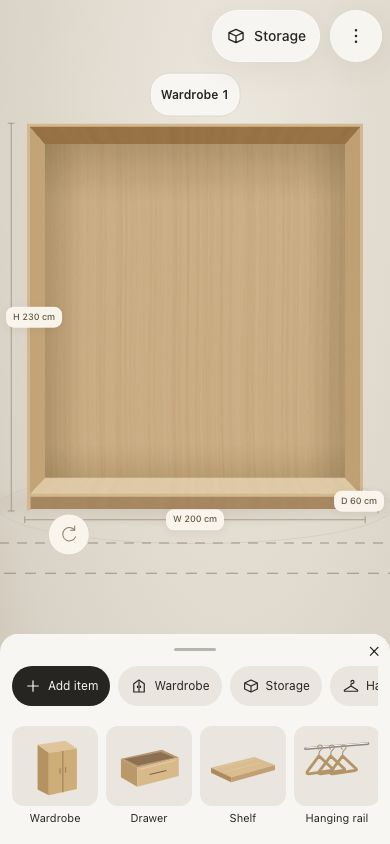
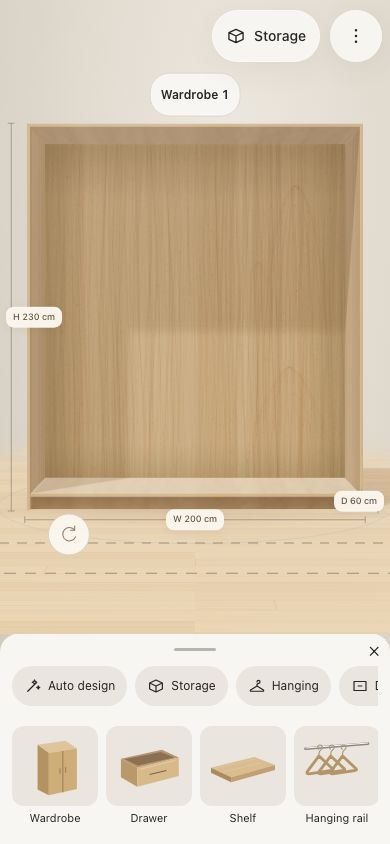
Room view: whole room on adding walls; Move hides Add item; no trim through wardrobes
- Adding a room flies to the whole room from a little above and to one side,
  instead of an eye-level close-up that cropped it on phones.
- While Move is on, the wardrobe's Add item button is hidden.
- A wardrobe standing against a wall in front of a door or window hides that
  opening's room-side casing and sill, which used to poke through its back.

check-studio drags a shorter distance on phones (the room is smaller on screen).
Verification screenshots re-recorded.

diff --git a/src/presentation/viewport/studio-renderer.ts b/src/presentation/viewport/studio-renderer.ts
@@ -17,6 +17,9 @@ const stubFor = (downward: number) => Math.max(1, Math.min(STUB, STUB * (downwar
 const SKIRTING = { height: 8, depth: 1.5 }, CASING = { width: 7, depth: 2 }, LEAF = 4;
 const linear = (hex: string) => new THREE.Color(hex).convertSRGBToLinear();
 
+/** Where a wardrobe stands: its centre, turn (degrees) and size. Centimetres. */
+export interface Footprint { x: number; z: number; angle: number; w: number; d: number }
+
 /** What is selected in the room: drawn with its outline at full height, even while its wall is lowered. */
 export type RoomSelection = { readonly kind: 'wall' | 'opening'; readonly id: string } | null;
 interface WallView { id: string; group: THREE.Group; body: THREE.Group; details: THREE.Group; cap: THREE.Mesh; normal: THREE.Vector3; mid: THREE.Vector3; height: number; lift: number }
@@ -68,12 +71,14 @@ export function createStudioRenderer(scene: THREE.Scene) {
   }
 
   let builds = 0;
-  function sync(studio: Studio | undefined) {
-    const next = studio ? JSON.stringify(studio) : '';
+  let standing: readonly Footprint[] = [];
+  function sync(studio: Studio | undefined, footprints: readonly Footprint[] = []) {
+    const next = studio ? JSON.stringify([studio, footprints]) : '';
     if (next === key) return;
     key = next;
     builds++;
     room = studio;
+    standing = footprints;
     const lifts = new Map(walls.map(v => [v.id, v.lift]));
     clear();
     if (!studio) return;
@@ -158,8 +163,10 @@ export function createStudioRenderer(scene: THREE.Scene) {
     const frameM = material(LOOK.frame);
     for (const o of openings) {
       const left = o.offset - o.width / 2, right = o.offset + o.width / 2, top = o.sill + o.height, tall = top - o.sill + (o.sill > 0 ? CASING.width : 0);
+      // A wardrobe standing against the wall in front of it hides its room-side trim, which would poke through its back.
+      const covered = standing.some(f => covers(f, line, left - CASING.width, right + CASING.width, face + 8));
       // Casings on both faces: sides and head; windows also have a bottom rail.
-      for (const side of [1, -1]) {
+      for (const side of covered ? [-1] : [1, -1]) {
         const z = side * (face + CASING.depth / 2);
         box(CASING.width, tall, CASING.depth, left - CASING.width / 2, (o.sill + top) / 2, z, frameM, details, o.id);
         box(CASING.width, tall, CASING.depth, right + CASING.width / 2, (o.sill + top) / 2, z, frameM, details, o.id);
@@ -187,7 +194,7 @@ export function createStudioRenderer(scene: THREE.Scene) {
         box(sash, o.height, 4, right - sash / 2, cy, 0, frameM, details, o.id);
         box(o.width, 3, 3, o.offset, cy, 0, frameM, details, o.id);
         if (o.width > 90) box(3, o.height, 3, o.offset, cy, 0, frameM, details, o.id);
-        box(o.width + 16, 2.5, 6, o.offset, o.sill - 1.25, face + 3, material(LOOK.skirting), details, o.id);
+        if (!covered) box(o.width + 16, 2.5, 6, o.offset, o.sill - 1.25, face + 3, material(LOOK.skirting), details, o.id);
       }
     }
     group.rotation.y = line.angle * Math.PI / 180;
@@ -301,6 +308,18 @@ function faceOutline(start: number, end: number, height: number, openings: reado
     shape.holes.push(hole);
   }
   return shape;
+}
+
+/** Whether a wardrobe's footprint reaches within `reach` of the wall's centre line, on the room side, over
+ * the stretch [from, to] along the wall. */
+function covers(f: Footprint, line: NonNullable<ReturnType<typeof wallLine>>, from: number, to: number, reach: number) {
+  const a = f.angle * Math.PI / 180, ux = Math.cos(a), uz = -Math.sin(a), fx = Math.sin(a), fz = Math.cos(a);
+  const corners = [[-1, -1], [1, -1], [1, 1], [-1, 1]].map(([i, j]) => {
+    const x = f.x + i! * f.w / 2 * ux + j! * f.d / 2 * fx - line.a.x, z = f.z + i! * f.w / 2 * uz + j! * f.d / 2 * fz - line.a.z;
+    return { along: x * line.ux + z * line.uz, out: x * line.nx + z * line.nz };
+  });
+  const along = corners.map(c => c.along), out = corners.map(c => c.out);
+  return Math.max(...along) > from && Math.min(...along) < to && Math.min(...out) < reach && Math.max(...out) > 0;
 }
 
 /** The parts of [start, end] not covered by the openings. */

diff --git a/src/presentation/editor/room-wiring.ts b/src/presentation/editor/room-wiring.ts
@@ -78,18 +78,14 @@ export function createRoomWiring({ dom, model, sceneCommands, history, picking, 
         late.camera().frameBox({ x: mid.x + line.nx * 60, z: mid.z + line.nz * 60, w: span, d: span * .5, h: w.height }, Math.atan2(line.nx, line.nz) + .62, .55, 1.08);
     }
 
-    /** Flies to the room as a photographer would show it: straight on to the wardrobe wall, a little above eye
-     * level, the whole room width and the walls' full height in frame (the near wall is cut away). */
+    /** Flies to show the whole room: every wall, the floor and the wardrobes, from a little above and
+     * slightly to one side of the wardrobe wall, so its depth reads. The near walls are cut away. */
     function frameRoom() {
         const room = model.scene.studio && studioBounds(model.scene.studio), w = late.wardrobeBounds();
         if (!room) return;
         const x0 = Math.min(room.x0, w.x - w.w / 2), x1 = Math.max(room.x1, w.x + w.w / 2), z0 = Math.min(room.z0, w.z - w.d / 2), z1 = Math.max(room.z1, w.z + w.d / 2);
         const active = model.scene.wardrobes.find(c => c.id === model.scene.activeWardrobe), facing = (active?.angle ?? 0) * Math.PI / 180;
-        // A portrait screen cannot show the whole room width at eye level without leaving it tiny: it shows the
-        // wardrobe wall with a little room either side, the walls' full height.
-        const narrow = typeof innerWidth === 'number' && innerWidth < innerHeight;
-        const width = narrow ? Math.min(x1 - x0, w.w + 140) : x1 - x0, x = narrow ? w.x : (x0 + x1) / 2;
-        late.camera().frameBox({ x, z: (z0 + z1) / 2, w: width, d: (z1 - z0) * .4, h: room.height }, facing, .14, 1.02);
+        late.camera().frameBox({ x: (x0 + x1) / 2, z: (z0 + z1) / 2, w: x1 - x0, d: z1 - z0, h: room.height }, facing + .32, .5, 1.04);
     }
 
     return {

diff --git a/src/presentation/viewport/cabinet-renderer.js b/src/presentation/viewport/cabinet-renderer.js
@@ -47,9 +47,11 @@ export function createCabinetRenderer({ dom, camera, interactions, inspector, sh
     const overlay = studio && studioEditor ? createStudioOverlay({ document, labels: () => $('#labels'), scene: resources.scene, camera: resources.cam, canvas: resources.cv, renderState,
         label: (p, t, c) => label(p, t, c), bindRuler: (e, a, b, x) => bindRuler(e, a, b, x), editor: studioEditor }) : null;
     if (overlay) lifetime.cleanup(() => overlay.dispose());
+    /** Where the wardrobes stand, so the room leaves out door and window trim hidden behind one. */
+    const wardrobeFootprints = () => model.scene.wardrobes.map(c => ({ x: c.x, z: c.z, angle: c.angle, w: c.state.w, d: c.state.d }));
     /** Redraws only the room and its handles: a wall drag never rebuilds the wardrobes. */
     function redrawStudio() {
-        studio?.sync(model.scene.studio);
+        studio?.sync(model.scene.studio, wardrobeFootprints());
         studio?.select(studioEditor?.valid() ?? null);
         overlay?.draw();
         positionLabels();
@@ -145,7 +147,7 @@ export function createCabinetRenderer({ dom, camera, interactions, inspector, sh
         resources.stage?.fit((x0 + x1) / 2, (z0 + z1) / 2, Math.max(x1 - x0, z1 - z0));
     }
     function build() {
-        studio?.sync(model.scene.studio);
+        studio?.sync(model.scene.studio, wardrobeFootprints());
         fitLight();
         studio?.select(studioEditor?.valid() ?? null);
         const selected = model.activeCabinet();

diff --git a/src/presentation/editor/mobile.css b/src/presentation/editor/mobile.css
@@ -208,3 +208,6 @@
 }
 
 .mobile-add-categories [hidden]{display:none}
+
+/* Moving a wardrobe: nothing is added meanwhile, so its Add item button steps aside. */
+#app[data-toolbar-mode="move"] #labels .lbl.add{display:none!important}
